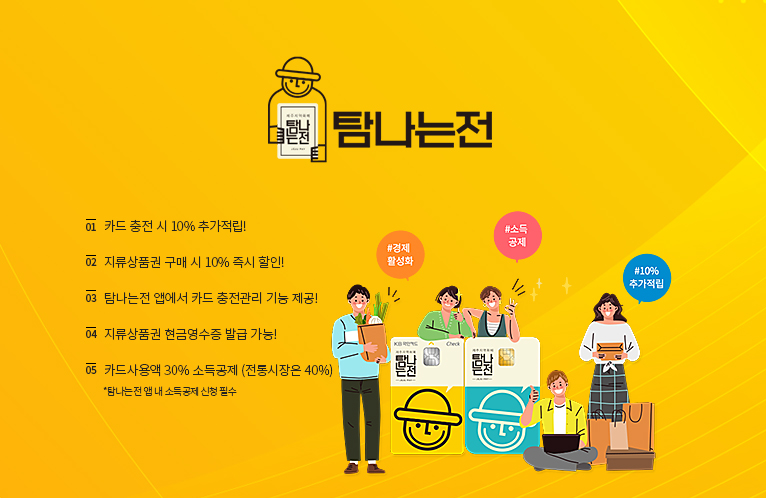
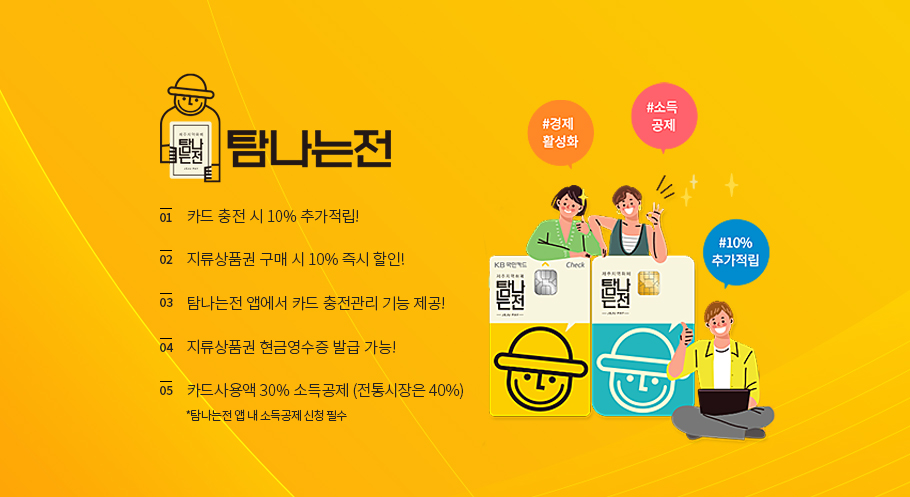
mobile main 완성

diff --git a/web/mobile/index.html b/web/mobile/index.html
@@ -88,9 +88,9 @@
         <!-- main img start -->
         <div class="main_img_wrap">
             <h2 class="blind">메인이미지</h2>
-                <ul class="slidewrap">
-                    <li class="main_img_1 item">
-                        <img src="images/index/tamna_mobile_index_main_img1.jpg" alt="탐나는전 혜택 소개">
+                 <ul class="slidewrap">
+                  <li class="main_img_1 item">
+                        <img src="images/index/tamna_mobile_index_main_img1.jpg" alt="탐나는전 혜택 소개" class="img1">
                         <p class="blind"> 탐나는전 혜택 소개
                         1번 카드 충전시 10% 추가 적립
                         2번 지류 상품권 구매 시 10% 즉시 할인
@@ -100,18 +100,18 @@
                         탐나는전 앱 에서 소득공제를 신청하셔야 합니다.</p>
                     </li>
                     <li class="main_img_2 item">
-                        <img src="images/index/tamna_mobile_index_main_img2.jpg" alt="탐나는전 어플 설치하기">
+                        <img src="images/index/tamna_mobile_index_main_img2.jpg" alt="탐나는전 어플 설치하기" class="img2">
                         <p class="blind"> 탐나는전 어플 설치하기
                             앱에서 간편하게 탐나는전 이용 </p>
                     </li>
                     <li class="main_img_3 item">
-                        <img src="images/index/tamna_mobile_index_main_img3.jpg" alt="가맹점 신청 안내">
+                        <img src="images/index/tamna_mobile_index_main_img3.jpg" alt="가맹점 신청 안내" class="img3">
                         <a href="shop_benefit.php" class="main_img_link" title="가맹점 신청하기">
-                            가맹점 신청 안내
-                            삼춘! 아직 가맹점 신청 안하맨?
+                            <p class="blind">가맹점 신청 안내
+                            삼춘! 아직 가맹점 신청 안하맨?</p>
                         </a>
                     </li> 
-                </ul>
+                </ul> 
         </div>
         <!-- main img end -->
         <!-- quick menu start -->

diff --git a/web/mobile/css/main.css b/web/mobile/css/main.css
@@ -7,39 +7,43 @@
     margin: 0 auto;
     z-index: 0;
 }
-.main_img_wrap{
-    width: 89vw;
-    height: 498px;
+.main_img_wrap {
+    position: relative;
+    width: 90%;
+    height: auto;
     margin: 0 auto;
-    border-bottom: 2px solid #595959;
-    box-sizing: border-box;
+    left: 0px;
     overflow: hidden;
 }
 .slidewrap{
-    width: 356vw;
+    display: flex;
+    width: 300%;
     height: 50vw;
-    margin: 0;
-    padding: 0;
+    flex-flow: row nowrap;
 }
 .main_img_1{
-    width: 89vw;
-    float: left;
+    width: 100%;
+    height: auto;
+    background: url(../images/index/tamna_mobile_index_main_img1.jpg) no-repeat center;
+    background-size: cover;
 }
 .main_img_2{
-    width: 89vw;
-    height: 498px;
-    float: left;
+    width: 100%;
+    height: auto;
+    background: url(../images/index/tamna_mobile_index_main_img2.jpg) no-repeat center;
+    background-size: cover;
 }
 .main_img_3{
-    width: 89vw;
-    height: 498px;
-    float: left;
+    width: 100%;
+    height: auto;
+    background: url(../images/index/tamna_mobile_index_main_img3.jpg) no-repeat center;
+    background-size: cover;
 }
-.main_img_4{
-    width: 89vw;
-    height: 498px;
-    float: left;
-} 
+.img1,.img2,.img3{
+    display: none;
+}
+
+
 
 /* quick menu */
 .quick_menu{

diff --git a/web/mobile/css/intro.css b/web/mobile/css/intro.css
@@ -359,7 +359,7 @@
     display: block;
     font-size: 16px;
     font-weight: 500;
-}
+}/zz
 /* Paper */
 .tamna_howto_paper{
     width: 100%;
